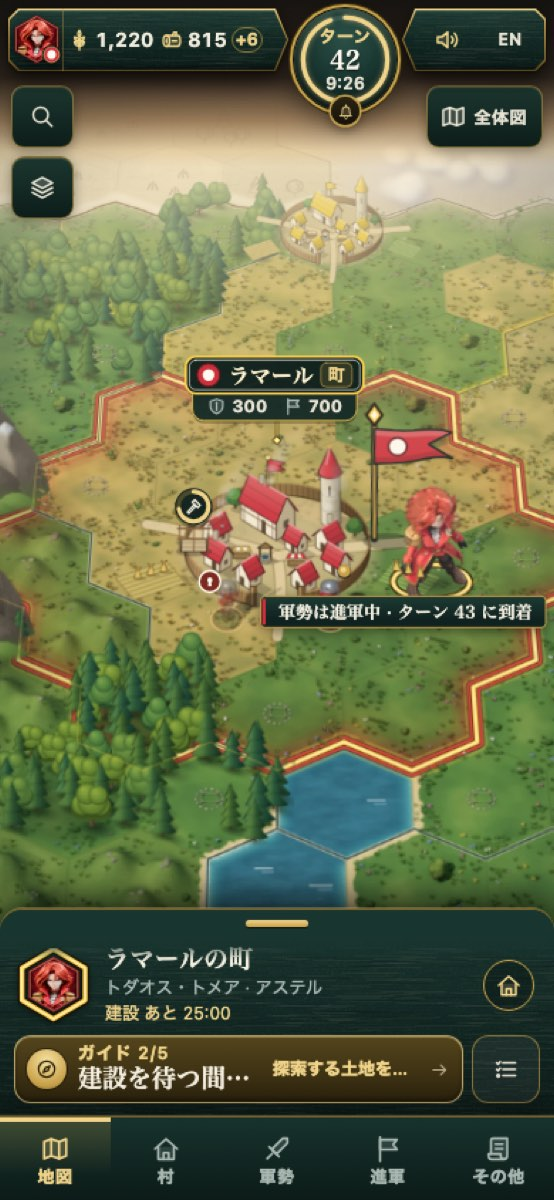
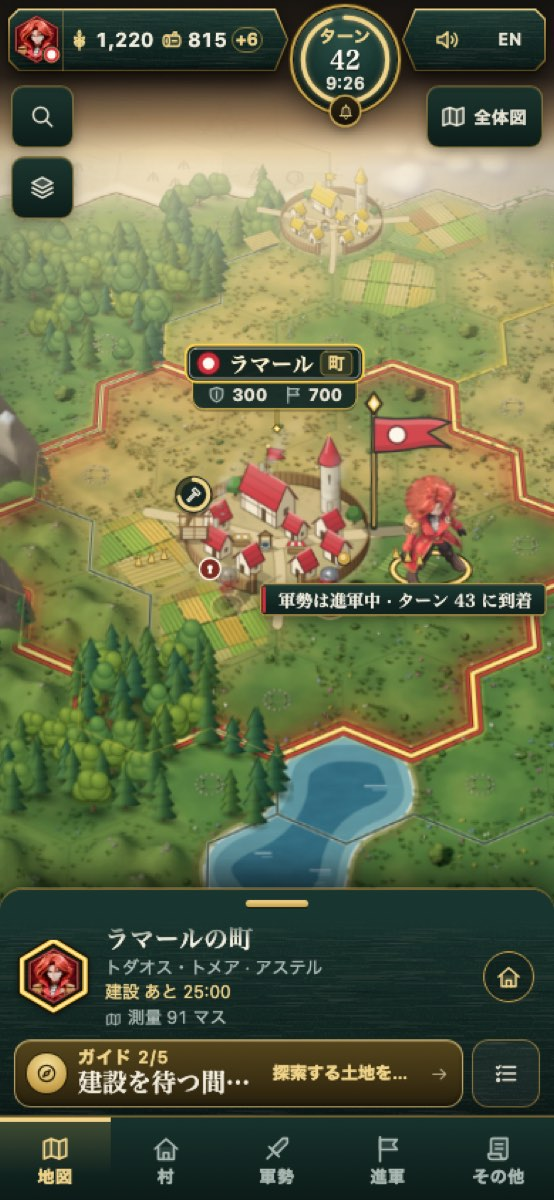
Uplift, the map at rest: the land's long swells of light and shade; doc 06 and pictures
groundblend.mjs paintSwell: soft warm light or cool shade by a smooth swell
of the world's position, laid soft-light over the land of a province's
ground bitmap (neighbours of other provinces lay theirs too: no seam at a
province's edge). docs/design/uplift/06-MAP-REST.ja.md; the before/after
pictures with the village's lens.

diff --git a/docs/design/uplift/shots/index.html b/docs/design/uplift/shots/index.html
@@ -30,7 +30,8 @@
 </section>
 <script>
   const P = [
-    ['s01-rest-desk', '普段の地図：マス目を息に'],
+    ['s01-rest-desk', '普段の地図：ひとつの国土、自然な岸、耕された土地、マス目は息に'],
+    ['s02-village-desk', '村を選ぶ：その土地だけが色を持つ（村のレンズ）'],
     ['s03-host-desk', '軍を選ぶ：届く範囲だけ格子'],
     ['s04-compose-desk', '進軍の命令：見通し（到着・費用・相手・予測）と取り消せない一行'],
     ['s10-compare-desk', '守り手のいる村へ：構えを比べる（ルールの予測）'],
@@ -38,7 +39,7 @@
     ['s06-holding-desk', '村の引き出し'],
     ['s07-hosts-desk', '軍勢の引き出し：状態の判を形でも区別'],
   ];
-  const PH = [['s01-rest-phone', '普段（スマホ）'], ['s04-compose-phone', '進軍の命令（スマホ）'], ['s10-compare-phone', '構えを比べる（スマホ）']];
+  const PH = [['s01-rest-phone', '普段（スマホ）'], ['s02-village-phone', '村を選ぶ（スマホ）'], ['s04-compose-phone', '進軍の命令（スマホ）'], ['s10-compare-phone', '構えを比べる（スマホ）']];
   const pairs = document.getElementById('pairs');
   for (const [s, t] of [...P, ...PH]) {
     const phone = s.endsWith('phone');

diff --git a/docs/design/uplift/06-MAP-REST.ja.md b/docs/design/uplift/06-MAP-REST.ja.md
@@ -1,0 +1,38 @@
+# 普段の地図をもう一段：ひとつの国土、自然な岸、耕された土地、村のレンズ
+
+2026-10-24、2 回目。依頼者が参考に示した Civilization VII の 2 枚（街と地形が連なる普段の地図、都市を選ぶと周りが灰色になる表示）を、見た目の水準の参考とした。外観を写すのではなく、そこから 3 つの考えを取った：地形が切れ目なく続くこと、文明が土地を埋めていること、選んだものの土地だけが色を持つこと。
+
+## 変えたこと
+
+| 何 | どこ | 記録との関係 |
+|---|---|---|
+| **ひとつの国土**：種類の違う土地が接するところで、互いの色（焼き込みの絵の真ん中の色を一度だけ取る）がタイルの半分まで混ざる。草地と平原、平原と丘が六角形の線で切れずに移る | `map/groundblend.mjs` paintBlend | 地形は記録どおり。色の境目だけを柔らかくした |
+| **自然な岸**：水の広がりを丸ごと輪郭にし（州をまたいでも同じ輪郭）、丸めて少し揺らす。輪郭の外に出た水の六角形の角は陸に、内に入った陸の角は水に。水面は一枚の色でそろえ、岸に濡れた砂・浅瀬・白波 | `groundblend.mjs` paintShores、waterBody | どのマスが水かは記録どおり（移動・戦闘の規則は hex のまま）。描く岸の線だけが六角形でない |
+| **土地の大きなうねり**：数タイルにわたる長い波で、暖かい光と冷たい影を土地に重ねる（世界の位置で決まるので、州の境で途切れない）。同じ種類の土地が六角形ごとに同じ絵を繰り返して見えるのを和らげる | `groundblend.mjs` paintSwell | 見た目だけ。地形・産出とは無関係 |
+| マス目は水の上に引かない | `map/sprites.mjs` gridOf | |
+| 焼き込みの「辺ごとの浜と岸」は、岸を描くときは描かない（六角形に沿っていた） | `sprites.mjs` groundOf | 遠景（far）は今のまま |
+| **耕された土地**：村の土地のマスに畑。どの村も 1 ＋ 段階 枚（基本の食料の産出は段階で増える：`fland.mjs BASE_PROD`、`TIER_BONUS_PCT`）。自分の村は、建てた農場の数だけ増える。木こり場（伐採場）・石切場・鉱山を建てていれば、木材の山・切り出した段・坑道 | `map/landuse.mjs` | 建物はマスを持たない（規則）。どのマスに絵を置くかは絵の都合で、そのマスについて何も言わない。他の村の建物はページが読んでいないので、段階の分の畑だけ |
+| 畑などは州の地面の絵に焼き込む（印の文字列を絵の鍵に入れ、建物が増えたら描き直す） | `sprites.mjs` | 動いている間の 1 枚の時間は変更前と同じ |
+| **村のレンズ**：自分の村を選ぶと、その土地の外を灰色にして少し暗くする。村が働かせている土地が一目で分かる | `map/actions.mjs` paintLandLens、`map/fmap.mjs` | ページは着地のあとやガイドの手順で自分の村を自分で選ぶので、灰色は強すぎない程度に |
+| **一つの光**：左上から暖かい光、右下へ冷たく落ちる。画面の上に soft-light で重ねる（1 枚ごとの費用なし）。近景で強く、遠景では消える | `uplift.css` .map-light、`index.html` | |
+
+`?country=0` を付けると、地面は変更前の描き方に戻る（比べるため）。
+
+## 描かないもの
+
+- 都市の区画（Civ のような）：Wylls の規則では建物がマスを持たないため。
+- 往来で育つ道（Q-U2 は【未決定】）、記録にない道。
+- 他の村の建物の絵（ページは他人の Holding を読んでいない）。
+- 遠景（全体図）は変えていない。測量した土地だけを描くのは、持ち主のこれまでの決定（UX-DESIGN 3 章）。
+
+## 確かめたこと
+
+- 見本の世界（固定の場面）と、ローカルの本物のチェーン（ボット入りの征服の世界）で、近景・村の選択・スマホを撮って見た。
+- 描画の速さ（`uplift-perf.mjs`、1440×900、DPR 2）：静止 25 ms、ドラッグ p50 26 ms（変更前 25）、範囲を照らす full 137 ms（変更前 134〜135）。畑を毎フレーム描いていた途中の版はドラッグ p50 28 ms だったので、地面の絵に焼き込んで戻した。
+- 試験：04-VERIFY の数字を更新。
+
+## 残り
+
+- 同じ種類の土地の中で、焼き込みの絵の細かな模様が六角形ごとに繰り返すところは、うねりで和らいだが残る（絵そのものの性質）。
+- 岸の輪郭は、まだ測量の外（羊皮紙）に接するところで羊皮紙側に回り込まない。
+- 文明が土地を埋める密度は、村の数で決まる。見本の世界は村が 3 つで、本物の世界ほど密にならない。
